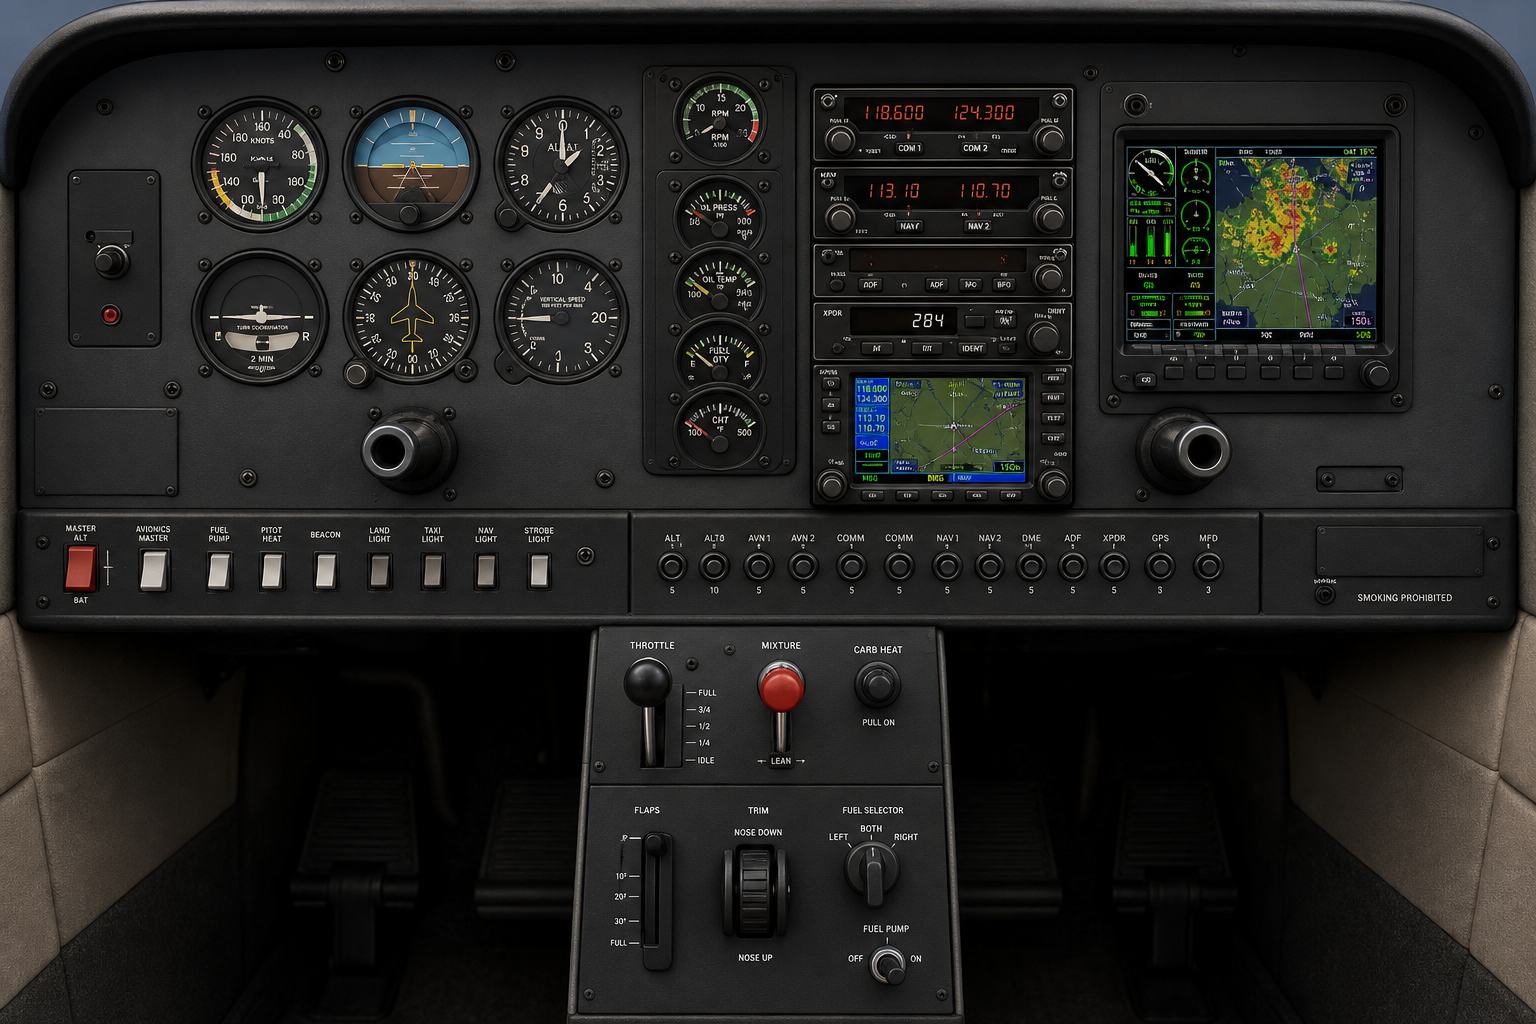
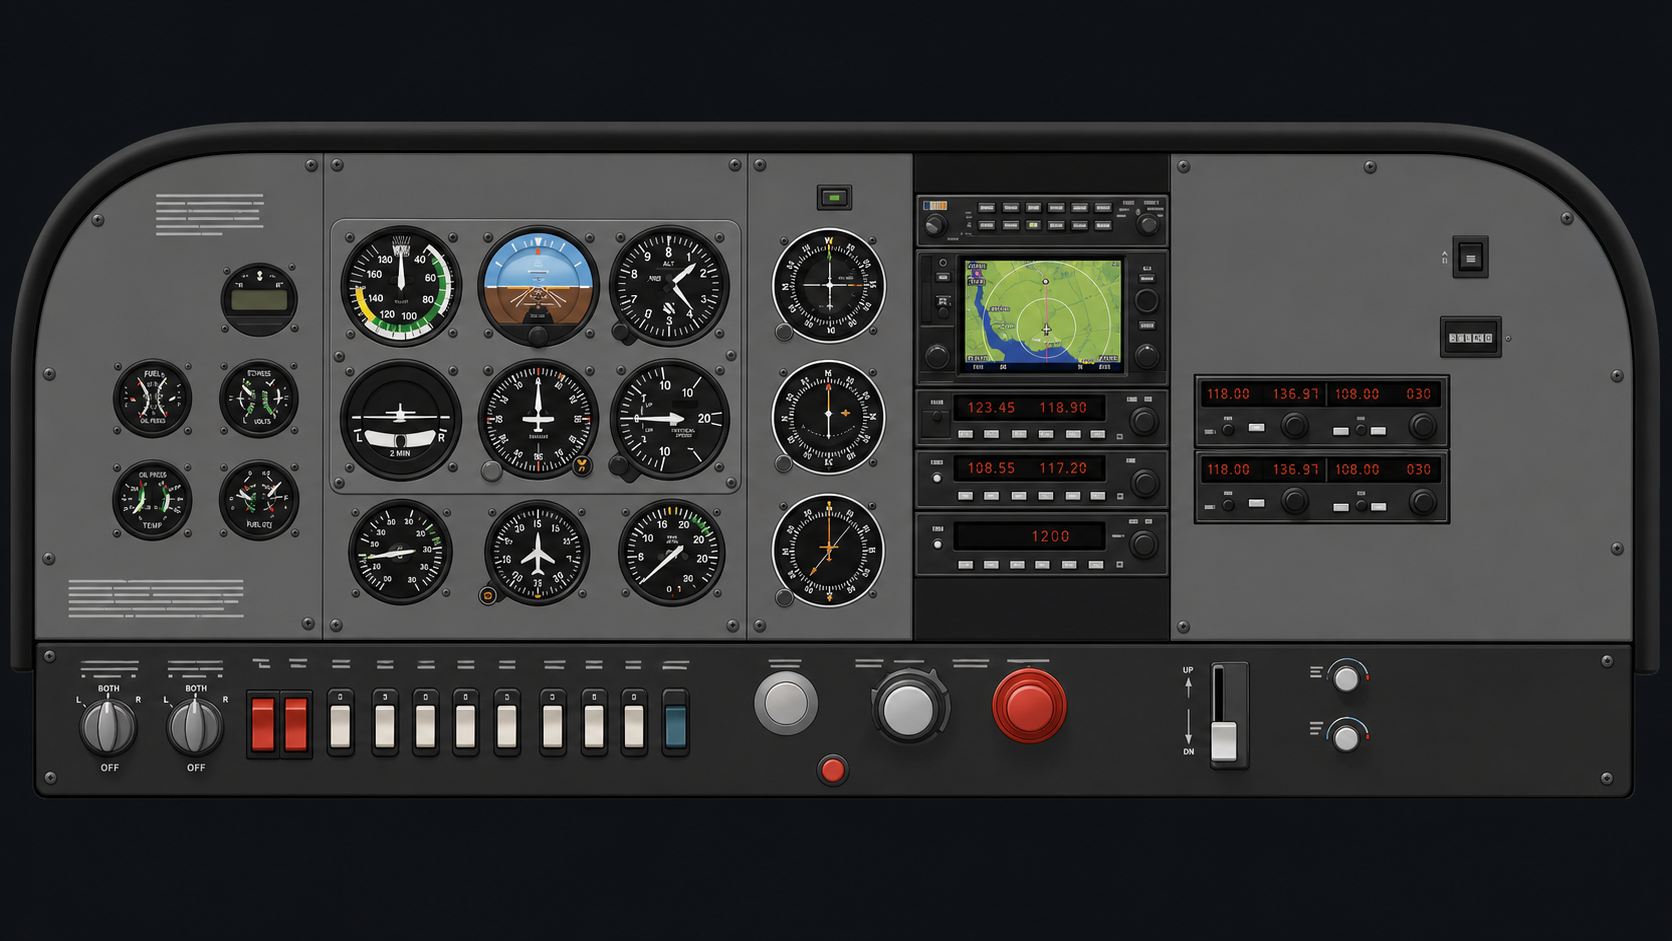
Match C172 panel practice layout

diff --git a/src/features/flightTraining/FlightTrainingView.tsx b/src/features/flightTraining/FlightTrainingView.tsx
@@ -114,7 +114,7 @@ const panelHotspots: PanelHotspot[] = [
     label: 'Six Pack',
     title: 'Primary Flight Instruments',
     zone: 'Scan from left to right, then support with engine and navigation instruments.',
-    style: { left: '25%', top: '24%', width: '28%', height: '32%' },
+    style: { left: '20%', top: '20%', width: '25%', height: '37%' },
     notes: [
       'Airspeed, attitude, altimeter, turn coordinator, heading indicator, and VSI form the main instrument scan.',
       'Use this area for attitude, altitude, heading, airspeed, and trend cross-checks.',
@@ -126,7 +126,7 @@ const panelHotspots: PanelHotspot[] = [
     label: 'Engine',
     title: 'Engine Gauges',
     zone: 'Monitor powerplant health before takeoff, in climb, cruise, and before landing.',
-    style: { left: '45%', top: '13%', width: '8%', height: '37%' },
+    style: { left: '5%', top: '22%', width: '14%', height: '35%' },
     notes: [
       'Check RPM, oil pressure, oil temperature, fuel quantity, and electrical indications.',
       'During run-up, confirm oil pressure and temperature are in the green and the ammeter is sensible.',
@@ -138,7 +138,7 @@ const panelHotspots: PanelHotspot[] = [
     label: 'NAV/COM',
     title: 'Radio and GPS Stack',
     zone: 'Set communication, navigation, transponder, and GPS before taxi or while workload is low.',
-    style: { left: '53%', top: '10%', width: '18%', height: '39%' },
+    style: { left: '55%', top: '17%', width: '16%', height: '42%' },
     notes: [
       'Set COM frequencies, NAV aids, GPS route or direct-to, and transponder mode/code.',
       'Keep one radio ready for tower or mandatory frequency and one for monitoring or backup.',
@@ -150,7 +150,7 @@ const panelHotspots: PanelHotspot[] = [
     label: 'MFD',
     title: 'Multifunction Display',
     zone: 'Use as a situational-awareness aid, not a replacement for outside scan and basic navigation.',
-    style: { left: '73%', top: '13%', width: '19%', height: '30%' },
+    style: { left: '57%', top: '27%', width: '12%', height: '14%' },
     notes: [
       'Review map, traffic or weather displays when equipped and appropriate.',
       'Cross-check MFD information against the chart, radios, heading, and visual references.',
@@ -162,7 +162,7 @@ const panelHotspots: PanelHotspot[] = [
     label: 'Switches',
     title: 'Electrical and Light Switch Row',
     zone: 'Work left to right during pre-start, taxi, takeoff, landing, and shutdown flows.',
-    style: { left: '5%', top: '50%', width: '75%', height: '12%' },
+    style: { left: '2%', top: '71%', width: '42%', height: '16%' },
     notes: [
       'Master, avionics master, fuel pump, pitot heat, beacon, landing, taxi, nav, and strobe lights live here.',
       'Use the aircraft checklist to decide what should be on for each phase.',
@@ -173,8 +173,8 @@ const panelHotspots: PanelHotspot[] = [
     id: 'throttle-mixture',
     label: 'Power',
     title: 'Throttle and Mixture',
-    zone: 'Power controls sit on the upper center pedestal.',
-    style: { left: '40%', top: '63%', width: '22%', height: '15%' },
+    zone: 'Power controls sit along the lower center panel.',
+    style: { left: '45%', top: '72%', width: '19%', height: '16%' },
     notes: [
       'Throttle controls engine power; mixture controls fuel-air ratio.',
       'Practice smooth throttle movements and mixture rich/lean calls by phase of flight.',
@@ -183,10 +183,10 @@ const panelHotspots: PanelHotspot[] = [
   },
   {
     id: 'flaps-trim-fuel',
-    label: 'Pedestal',
+    label: 'Config',
     title: 'Flaps, Trim, Fuel Selector',
-    zone: 'Lower center pedestal: configuration and fuel management controls.',
-    style: { left: '38%', top: '77%', width: '25%', height: '18%' },
+    zone: 'Lower panel: configuration and fuel management controls.',
+    style: { left: '63%', top: '70%', width: '20%', height: '18%' },
     notes: [
       'Flap selector, trim wheel, fuel selector, and fuel pump controls are grouped here.',
       'Before takeoff: trim set, flaps set and checked, fuel selector both, fuel shutoff in.',
@@ -302,7 +302,7 @@ export const FlightTrainingView = ({ data, onDataChange, page }: { data: GroundS
       <div className="c172-panel-real">
         <div className="panel-practice-stage">
           <div className="panel-image-wrap" aria-label="Cessna 172S Nav II cockpit panel practice image">
-            <img className="panel-reference-image" src={c172sPanelImage} alt="Cessna 172S-style Nav II cockpit panel with center pedestal" />
+            <img className="panel-reference-image" src={c172sPanelImage} alt="Cessna 172S-style Nav II cockpit panel practice reference" />
             {panelHotspots.map((hotspot) => <button
               aria-pressed={selectedPanelHotspot.id === hotspot.id}
               className={selectedPanelHotspot.id === hotspot.id ? 'panel-hotspot active' : 'panel-hotspot'}